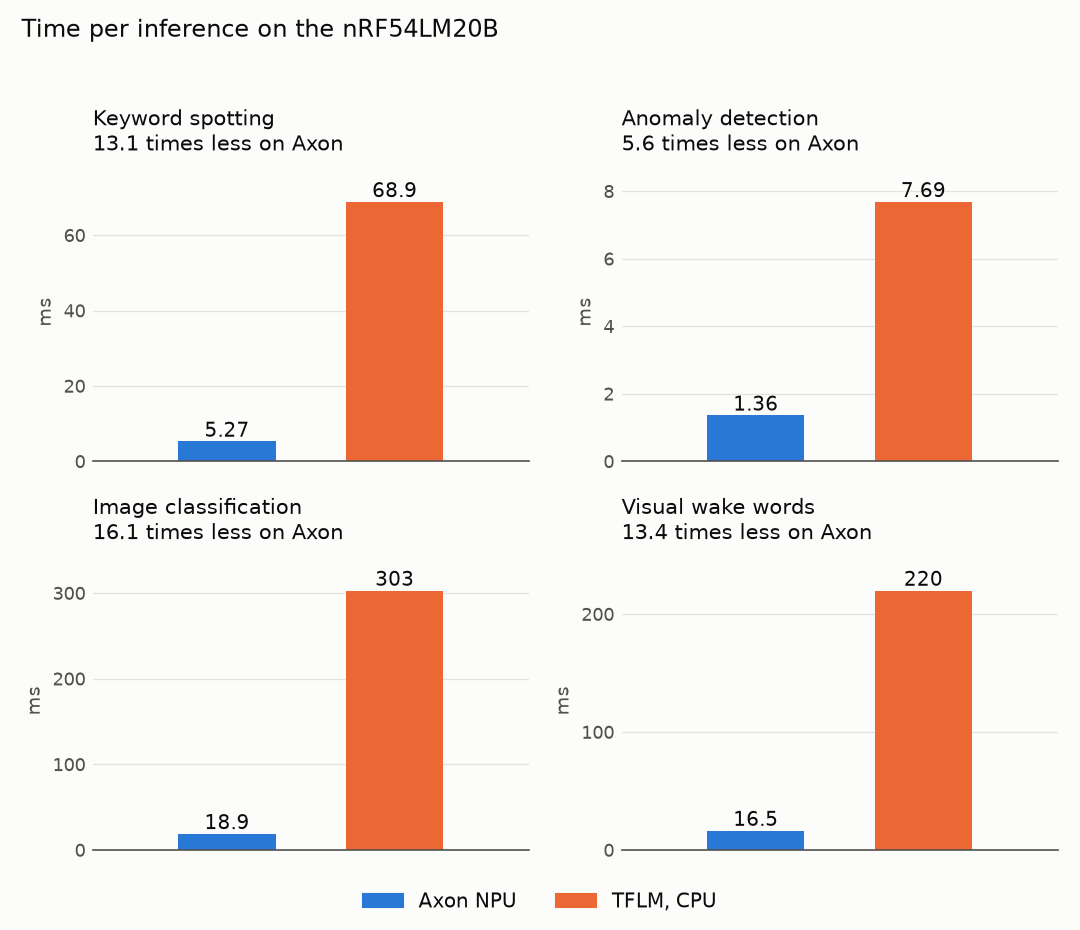
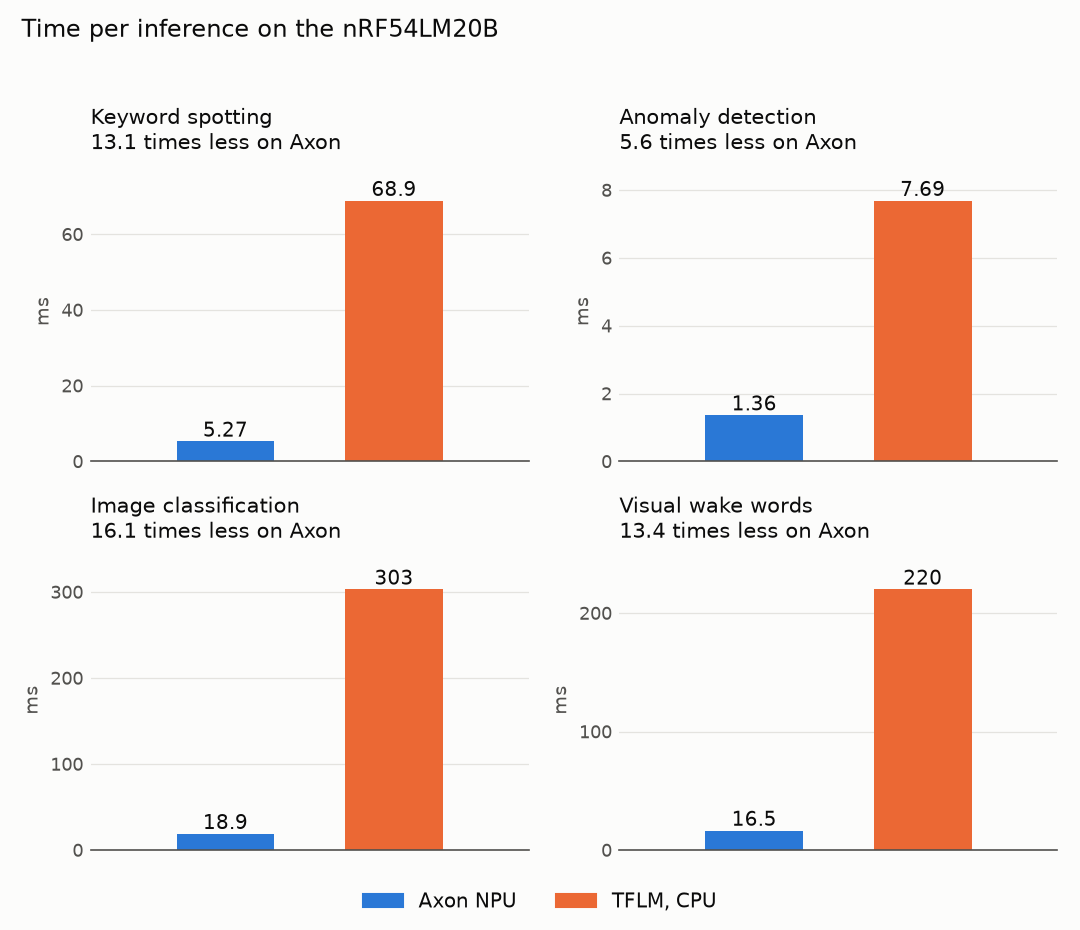
doc: short top-level README, app/README.md for the inference app

diff --git a/bench/plot.py b/bench/plot.py
@@ -60,6 +60,36 @@ def bars(index, unit, what, out):
     fig.savefig(HERE / out, dpi=150)
 
 
+def overview(out):
+    """Duration and mean current of one inference: one column per model, bars only."""
+    fig, axes = plt.subplots(2, len(MODELS), figsize=(10, 5.2), facecolor=SURFACE)
+    for col, (model, title) in enumerate(MODELS.items()):
+        widths, charges = zip(*(report(backend, model) for backend in BACKENDS))
+        rows = ((widths, "ms", f"{title}\n{widths[1] / widths[0]:.1f} times shorter on Axon"),
+                ([q / w for q, w in zip(charges, widths)], "mA", ""))
+        for ax, (values, unit, label) in zip(axes[:, col], rows):
+            drawn = ax.bar(range(2), values, width=0.58, color=[c for _, c in BACKENDS.values()])
+            for bar, value in zip(drawn, values):
+                ax.text(bar.get_x() + bar.get_width() / 2, value,
+                        f"{value:,.0f}" if value >= 100 else f"{value:.3g}",
+                        ha="center", va="bottom", fontsize=9, color=INK)
+            ax.set_title(label, fontsize=9.5, color=INK, loc="left")
+            ax.set_ylim(0, 4.2 if unit == "mA" else max(values) * 1.15)
+            ax.set_xlim(-0.8, 1.8)
+            ax.set_xticks([])
+            ax.locator_params(axis="y", nbins=5)
+            style(ax)
+    axes[0, 0].set_ylabel("Duration (ms)", fontsize=9, color=MUTED)
+    axes[1, 0].set_ylabel("Mean current (mA)", fontsize=9, color=MUTED)
+    fig.legend(handles=[plt.Rectangle((0, 0), 1, 1, color=c) for _, c in BACKENDS.values()],
+               labels=[n for n, _ in BACKENDS.values()], loc="lower center", ncol=2, frameon=False,
+               fontsize=9.5, labelcolor=INK)
+    fig.suptitle("One inference on the nRF54LM20B: duration, and mean current over that duration",
+                 fontsize=11.5, color=INK, x=0.02, ha="left")
+    fig.tight_layout(rect=(0, 0.05, 1, 0.96))
+    fig.savefig(HERE / out, dpi=150)
+
+
 def capture(backend, model):
     """Current in µA, and the D0 region whose charge is the closest to the median."""
     rows = np.loadtxt(HERE / f"{backend}_{model}.csv", delimiter=",", skiprows=1, usecols=(1, 3))
@@ -106,6 +136,7 @@ def traces(out):
     fig.savefig(HERE / out, dpi=150)
 
 
+overview("overview.png")
 bars(0, "ms", "Time", "latency.png")
 bars(1, "µC", "Charge", "charge.png")
 traces("traces.png")

diff --git a/README.md b/README.md
@@ -1,28 +1,15 @@
 # axon-npu-demo
 
-Minimal Axon NPU flow on the nRF54LM20 DK (nRF54LM20B SoC, board target `nrf54lm20dk/nrf54lm20b/cpuapp`):
-- take a model compiled by Nordic's Axon compiler (a C header),
-- link it into a Zephyr app,
-- run inference on the test vectors that come with it,
-- check the output bytes against the expected ones.
+Two Zephyr apps for the Axon NPU of the nRF54LM20B, on the nRF54LM20 DK:
 
-The default model is `tinyml_kws`, one of the four [MLPerf Tiny](https://github.com/mlcommons/tiny) models that the Edge AI Add-on ships already compiled, with three test vectors each. The app includes those headers from the add-on in the west workspace; this repository contains no add-on file.
+- [`app/`](app/README.md) runs a model compiled by Nordic's Axon compiler on the test vectors that come with it, and compares the output bytes with the expected ones.
+- [`bench/`](bench/README.md) measures the time and the current of an inference with a [Power Profiler Kit II](https://www.nordicsemi.com/Products/Development-hardware/Power-Profiler-Kit-2) (PPK2), on the NPU and on the CPU with TensorFlow Lite Micro (TFLM).
 
-`just compile` is optional: it downloads the four MLPerf Tiny `.tflite` models and runs the Axon compiler on them, to show how such headers are produced.
+The models are the four of [MLPerf Tiny](https://github.com/mlcommons/tiny). The [Edge AI Add-on](https://github.com/nrfconnect/sdk-edge-ai) ships them compiled, with three test vectors each, and the app includes those headers from the west workspace. This repository contains no add-on file.
 
-[`bench/`](bench/README.md) is a second app, which measures the time and the charge of an inference on the NPU and on the CPU. See [bench/README.md](bench/README.md) for the details.
+![Duration and mean current of one inference of the four models, on the NPU and on the CPU](bench/results/overview.png)
 
-```mermaid
-flowchart LR
-    addon[add-on: compiled_models/<br/>model + test vectors headers] --> build((just build))
-    tflite[MLPerf Tiny .tflite<br/>downloaded] -- just compile --> out[model/outputs/<br/>model + test vectors headers]
-    out -.-> build
-    app[main.c] --> build
-    sdk[nRF Connect SDK, Zephyr<br/>add-on driver + platform] --> build
-    build --> hex[zephyr.hex]
-    hex -- just flash --> dk[nRF54LM20 DK]
-    dk -- just monitor --> log[UART: outputs vs expected]
-```
+On the NPU an inference is 5.6 to 16.1 times shorter, at a mean current 0.4 to 1.0 mA higher. Its charge is 3.9 to 13.8 times lower. See [bench/README.md](bench/README.md) for the measurement and its limits.
 
 ## Requirements
 
@@ -38,7 +25,7 @@ flowchart LR
 `west.yml` pins the [Edge AI Add-on](https://github.com/nrfconnect/sdk-edge-ai)
 at **v3.0.0**, which pulls nRF Connect SDK **v3.4.1**.
 
-## Run
+## Quick start
 
 This repo is a west manifest: clone it into an empty directory and the SDK is checked out next to it.
 
@@ -51,19 +38,6 @@ just build      # tinyml_kws
 just flash
 just monitor    # Ctrl-] to quit
 ```
-
-If nRF Connect SDK v3.4.1 is already on disk, let west clone from it
-instead of downloading (`--path-cache`, see `west update --help`):
-
-```sh
-just setup --path-cache /opt/nordic/ncs/v3.4.1
-```
-
-`just setup` can be run again after an interrupted download.
-
-To reuse an existing add-on v3.0.0 workspace instead, skip `just setup`, install the toolchain
-(`nrfutil sdk-manager toolchain install --ncs-version v3.4.1`) and prefix the other recipes:
-`AXON_WS=/path/to/workspace just build`.
 
 Expected output, after the boot banner (the vector lines and the summary repeat every 2 s):
 
@@ -79,117 +53,10 @@ The first line prints once at start-up: press RESET on the DK to see it. The fir
 
 The classes match the sample log in the add-on's `tests/axon/inference/README.rst`. `MISMATCH` replaces `bit exact` when the output differs from the expected vector.
 
-## Other models
+## Details
 
-```sh
-just build tinyml_ad     # anomaly detection, no class line
-just build tinyml_ic     # image classification
-just build tinyml_vww    # visual wake words
-```
-
-Build sizes on add-on v3.0.0. RAM includes the 52 224 B interlayer buffer, flash the three test vectors:
-
-| Model | Input | Output | Interlayer buffer needed | Flash | RAM |
-|---|---:|---:|---:|---:|---:|
-| `tinyml_kws` | 490 B | 48 B | 13 548 B | 85 028 B | 60 032 B |
-| `tinyml_ad` | 640 B | 2 560 B | 2 688 B | 323 396 B | 62 376 B |
-| `tinyml_ic` | 3 072 B | 40 B | 52 224 B | 172 320 B | 60 016 B |
-| `tinyml_vww` | 27 648 B | 8 B | 46 080 B | 389 256 B | 59 952 B |
-
-## Compiling a model (optional)
-
-```sh
-just compile                          # needs Docker
-just build mlperf_kws model/outputs
-```
-
-`just compile`:
-
-1. downloads the four reference models from [mlcommons/tiny](https://github.com/mlcommons/tiny/tree/4addd0fa08d216e20637637874e084895f289da4/benchmark/training) at a pinned commit and checks their SHA-256,
-2. writes three random inputs per model with `model/make_test_data.py`, run inside the compiler image,
-3. runs the Axon compiler (Docker image built from the add-on) on `model/axon.yaml`.
-
-The compiler writes to `model/outputs/`, which is not committed. For `mlperf_kws`, and likewise for `mlperf_ad`, `mlperf_ic` and `mlperf_vww`:
-
-| File | Content |
-|---|---|
-| `nrf_axon_model_mlperf_kws_.h` | the compiled model |
-| `nrf_axon_model_mlperf_kws_test_vectors_.h` | the three inputs and the outputs the compiler computed for them on the host |
-| `nrf_axon_model_mlperf_kws_layers_.h` | per-layer models, not used here |
-| `nrf_axon_model_mlperf_kws_test_inference_labels_.csv` | the same expected outputs as CSV, not used here |
-
-The result is not the add-on's `tinyml_kws`: same layers and sizes, different weights, and `int8` outputs (12 B) where the add-on's header has `int32` (48 B). The inputs are random, so the printed classes mean nothing; only the bit-exact check does.
-
-## Axon compiler output
-
-The compiler writes `nrf_axon_model_<name>_.h` (the model), `..._test_vectors_.h` and `..._layers_.h`. The add-on's four can be read online:
-
-| Model | Compiled model | Test vectors |
-|---|---|---|
-| `tinyml_kws` | [`nrf_axon_model_tinyml_kws_.h`](https://github.com/nrfconnect/sdk-edge-ai/blob/v3.0.0/tests/axon/compiled_models/nrf_axon_model_tinyml_kws_.h) | [`nrf_axon_model_tinyml_kws_test_vectors_.h`](https://github.com/nrfconnect/sdk-edge-ai/blob/v3.0.0/tests/axon/compiled_models/nrf_axon_model_tinyml_kws_test_vectors_.h) |
-| `tinyml_ad` | [`nrf_axon_model_tinyml_ad_.h`](https://github.com/nrfconnect/sdk-edge-ai/blob/v3.0.0/tests/axon/compiled_models/nrf_axon_model_tinyml_ad_.h) | [`nrf_axon_model_tinyml_ad_test_vectors_.h`](https://github.com/nrfconnect/sdk-edge-ai/blob/v3.0.0/tests/axon/compiled_models/nrf_axon_model_tinyml_ad_test_vectors_.h) |
-| `tinyml_ic` | [`nrf_axon_model_tinyml_ic_.h`](https://github.com/nrfconnect/sdk-edge-ai/blob/v3.0.0/tests/axon/compiled_models/nrf_axon_model_tinyml_ic_.h) | [`nrf_axon_model_tinyml_ic_test_vectors_.h`](https://github.com/nrfconnect/sdk-edge-ai/blob/v3.0.0/tests/axon/compiled_models/nrf_axon_model_tinyml_ic_test_vectors_.h) |
-| `tinyml_vww` | [`nrf_axon_model_tinyml_vww_.h`](https://github.com/nrfconnect/sdk-edge-ai/blob/v3.0.0/tests/axon/compiled_models/nrf_axon_model_tinyml_vww_.h) | [`nrf_axon_model_tinyml_vww_test_vectors_.h`](https://github.com/nrfconnect/sdk-edge-ai/blob/v3.0.0/tests/axon/compiled_models/nrf_axon_model_tinyml_vww_test_vectors_.h) |
-
-For `tinyml_kws`:
-
-| Symbol | Where | What |
-|---|---|---|
-| `cmd_buffer_tinyml_kws[]` | flash | NPU command stream, 3 613 words |
-| `axon_model_const_tinyml_kws` | flash | weights and biases, 22 064 B |
-| `model_tinyml_kws` | flash | descriptor: buffer pointers, I/O shapes, quantisation, labels |
-
-The header also states the RAM the model needs for its activations, the interlayer buffer (`NRF_AXON_MODEL_TINYML_KWS_MAX_IL_BUFFER_USED`; the app prints it as "workspace"). That RAM is not inside the NPU: it is the global array `nrf_axon_interlayer_buffer`, defined in the add-on's Zephyr platform file and sized by `CONFIG_NRF_AXON_INTERLAYER_BUFFER_SIZE` in `app/prj.conf`. The same buffer holds the model's input and output. The header fails to compile if the buffer is too small.
-
-## Runtime flow
-
-See `app/src/main.c`:
-
-1. `nrf_axon_platform_init()`: IRQ, power and locking for the NPU.
-2. `nrf_axon_nn_model_init_vars()` resets the model's persistent variables (these models have none).
-   `nrf_axon_nn_model_validate()` checks that the interlayer buffer is large enough and the driver recent enough.
-   The app also refuses a model with several inputs or outputs.
-3. `nrf_axon_nn_model_infer_sync(&model, in, out)`:
-    - powers the NPU on and takes its lock,
-    - copies `in` into the interlayer buffer,
-    - hands the command stream to the NPU,
-    - sleeps until the completion interrupt,
-    - copies the result to `out` and powers the NPU off.
-4. `nrf_axon_nn_get_classification()`: index and label of the highest output.
-
-Not every layer runs on the NPU: the command streams of the three classifiers end with a softmax computed on the CPU, in `drivers/axon/nrf_axon_nn_op_extensions.c`.
-
-An application needs three things to use the NPU: `CONFIG_NRF_AXON=y` and `CONFIG_NRF_AXON_INTERLAYER_BUFFER_SIZE` in `prj.conf`, and the `axon` node enabled in a devicetree overlay (`app/boards/`), since it is disabled by default.
-
-## Important add-on files
-
-| Path under `edge-ai/` | Content |
-|---|---|
-| `include/drivers/axon/`, `include/axon/` | public headers |
-| `drivers/axon/nrf_axon_nn_infer.c` | inference entry points (source provided) |
-| `lib/axon/platform/src/zephyr/nrf_axon_platform_zephyr.c` | OS glue: IRQ, semaphores, power, interlayer buffer |
-| `lib/axon/bin/arm/libnrf-axon-driver-internal.a` | NPU driver core (prebuilt) |
-| `tools/axon/compiler/` | compiler (Docker) |
-| `tests/axon/compiled_models/` | the compiled models and test vectors used here |
-| `tests/axon/inference/` | Nordic's own test app for these models |
-| `samples/axon/hello_axon/` | Nordic's own minimal sample |
-
-References:
-- [Edge AI Add-on](https://nrfconnectdocs.nordicsemi.com/addons/addon-edge-ai/3.0.0/),
-- [Axon compiler](https://github.com/nrfconnect/sdk-edge-ai/blob/v3.0.0/doc/axon_compiler/Axon_npu_tflite_compiler.rst),
-- [MLPerf Tiny models on Axon](https://github.com/nrfconnect/sdk-edge-ai/blob/v3.0.0/doc/axon_compiler/mlperf_tiny_models.rst),
-- [supported operators](https://github.com/nrfconnect/sdk-edge-ai/blob/v3.0.0/doc/axon_compiler/supported_operators.rst).
-
-## Notes
-
-- `just flash` and `just monitor` use the only J-Link kit attached. With several, they stop and ask for `DK_SERIAL=<serial number>`, as listed by `nrfutil device list`.
-- The compiler in add-on v3.0.0 (Axon compiler v2.0.1) fails without the `classification_labels` key in `model/axon.yaml`. A model without classes, like anomaly detection, takes the key empty and no `test_labels`.
-- The compiler writes the test vectors header only with `test_data` and `header_file_test_vector_cnt` above 0; the default is 0.
-- The `us` column is the time of one `nrf_axon_nn_model_infer_sync()` call, measured with `k_cycle_get_32()` (1 µs resolution). It includes NPU power-up and locking, the input copy, the NPU run, any CPU layer, the output copy and power-down.
-- Tested on macOS. Linux is untested; Windows is not supported (`flash` and `monitor` need `bash`).
-- A model header defines its data, so it can be included in one C file only.
-- `just build` passes `-DAXON_MODEL` and `-DAXON_MODEL_DIR` to CMake; `app/CMakeLists.txt` reads them with `zephyr_get()`, since a plain cache variable does not reach the app image under sysbuild.
-- Paths containing spaces are not supported by the SDK's build system.
+- See [app/README.md](app/README.md) for the other models, the compiler's output, the driver calls of the app and the add-on files to read.
+- See [bench/README.md](bench/README.md) for the measurements: the tables, the figures, the method and how to reproduce them.
 
 ## Licence
 

diff --git a/app/README.md b/app/README.md
@@ -1,0 +1,142 @@
+# Inference app
+
+The app links a model compiled by Nordic's Axon compiler, runs it on the test vectors that come
+with it, and compares the output bytes with the expected ones. This page describes the models, the
+compiler's output, the driver calls and the add-on files behind it. See the
+[top-level README](../README.md) for the requirements and the quick start.
+
+```mermaid
+flowchart LR
+    addon[add-on: compiled_models/<br/>model + test vectors headers] --> build((just build))
+    tflite[MLPerf Tiny .tflite<br/>downloaded] -- just compile --> out[model/outputs/<br/>model + test vectors headers]
+    out -.-> build
+    app[main.c] --> build
+    sdk[nRF Connect SDK, Zephyr<br/>add-on driver + platform] --> build
+    build --> hex[zephyr.hex]
+    hex -- just flash --> dk[nRF54LM20 DK]
+    dk -- just monitor --> log[UART: outputs vs expected]
+```
+
+## Models
+
+```sh
+just build tinyml_ad     # anomaly detection, no class line
+just build tinyml_ic     # image classification
+just build tinyml_vww    # visual wake words
+```
+
+Build sizes on add-on v3.0.0. RAM includes the 52,224 B interlayer buffer, flash the three test vectors:
+
+| Model | Input | Output | Interlayer buffer needed | Flash | RAM |
+|---|---:|---:|---:|---:|---:|
+| `tinyml_kws` | 490 B | 48 B | 13,548 B | 85,028 B | 60,032 B |
+| `tinyml_ad` | 640 B | 2,560 B | 2,688 B | 323,396 B | 62,376 B |
+| `tinyml_ic` | 3,072 B | 40 B | 52,224 B | 172,320 B | 60,016 B |
+| `tinyml_vww` | 27,648 B | 8 B | 46,080 B | 389,256 B | 59,952 B |
+
+## Compiling a model
+
+```sh
+just compile                          # needs Docker
+just build mlperf_kws model/outputs
+```
+
+`just compile`:
+
+1. downloads the four reference models from [mlcommons/tiny](https://github.com/mlcommons/tiny/tree/4addd0fa08d216e20637637874e084895f289da4/benchmark/training) at a pinned commit and checks their SHA-256,
+2. writes three random inputs per model with [`model/make_test_data.py`](../model/make_test_data.py), run inside the compiler image,
+3. runs the Axon compiler (Docker image built from the add-on) on [`model/axon.yaml`](../model/axon.yaml).
+
+The compiler writes to `model/outputs/`, which is not committed. For `mlperf_kws`, and likewise for `mlperf_ad`, `mlperf_ic` and `mlperf_vww`:
+
+| File | Content |
+|---|---|
+| `nrf_axon_model_mlperf_kws_.h` | the compiled model |
+| `nrf_axon_model_mlperf_kws_test_vectors_.h` | the three inputs and the outputs the compiler computed for them on the host |
+| `nrf_axon_model_mlperf_kws_layers_.h` | per-layer models, not used here |
+| `nrf_axon_model_mlperf_kws_test_inference_labels_.csv` | the same expected outputs as CSV, not used here |
+
+The result is not the add-on's `tinyml_kws`: same layers and sizes, different weights, and `int8` outputs (12 B) where the add-on's header has `int32` (48 B). The inputs are random, so the printed classes mean nothing; only the bit-exact check does.
+
+## Axon compiler output
+
+The compiler writes `nrf_axon_model_<name>_.h` (the model), `..._test_vectors_.h` and `..._layers_.h`. The add-on's four can be read online:
+
+| Model | Compiled model | Test vectors |
+|---|---|---|
+| `tinyml_kws` | [`nrf_axon_model_tinyml_kws_.h`](https://github.com/nrfconnect/sdk-edge-ai/blob/v3.0.0/tests/axon/compiled_models/nrf_axon_model_tinyml_kws_.h) | [`nrf_axon_model_tinyml_kws_test_vectors_.h`](https://github.com/nrfconnect/sdk-edge-ai/blob/v3.0.0/tests/axon/compiled_models/nrf_axon_model_tinyml_kws_test_vectors_.h) |
+| `tinyml_ad` | [`nrf_axon_model_tinyml_ad_.h`](https://github.com/nrfconnect/sdk-edge-ai/blob/v3.0.0/tests/axon/compiled_models/nrf_axon_model_tinyml_ad_.h) | [`nrf_axon_model_tinyml_ad_test_vectors_.h`](https://github.com/nrfconnect/sdk-edge-ai/blob/v3.0.0/tests/axon/compiled_models/nrf_axon_model_tinyml_ad_test_vectors_.h) |
+| `tinyml_ic` | [`nrf_axon_model_tinyml_ic_.h`](https://github.com/nrfconnect/sdk-edge-ai/blob/v3.0.0/tests/axon/compiled_models/nrf_axon_model_tinyml_ic_.h) | [`nrf_axon_model_tinyml_ic_test_vectors_.h`](https://github.com/nrfconnect/sdk-edge-ai/blob/v3.0.0/tests/axon/compiled_models/nrf_axon_model_tinyml_ic_test_vectors_.h) |
+| `tinyml_vww` | [`nrf_axon_model_tinyml_vww_.h`](https://github.com/nrfconnect/sdk-edge-ai/blob/v3.0.0/tests/axon/compiled_models/nrf_axon_model_tinyml_vww_.h) | [`nrf_axon_model_tinyml_vww_test_vectors_.h`](https://github.com/nrfconnect/sdk-edge-ai/blob/v3.0.0/tests/axon/compiled_models/nrf_axon_model_tinyml_vww_test_vectors_.h) |
+
+For `tinyml_kws`:
+
+| Symbol | Where | What |
+|---|---|---|
+| `cmd_buffer_tinyml_kws[]` | flash | NPU command stream, 3,613 words |
+| `axon_model_const_tinyml_kws` | flash | weights and biases, 22,064 B |
+| `model_tinyml_kws` | flash | descriptor: buffer pointers, I/O shapes, quantisation, labels |
+
+The header also states the RAM the model needs for its activations, the interlayer buffer (`NRF_AXON_MODEL_TINYML_KWS_MAX_IL_BUFFER_USED`; the app prints it as "workspace"). That RAM is not inside the NPU: it is the global array `nrf_axon_interlayer_buffer`, defined in the add-on's Zephyr platform file and sized by `CONFIG_NRF_AXON_INTERLAYER_BUFFER_SIZE` in `prj.conf`. The same buffer holds the model's input and output. The header fails to compile if the buffer is too small.
+
+## Runtime flow
+
+See [`src/main.c`](src/main.c):
+
+1. `nrf_axon_platform_init()`: IRQ, power and locking for the NPU.
+2. `nrf_axon_nn_model_init_vars()` resets the model's persistent variables (these models have none).
+   `nrf_axon_nn_model_validate()` checks that the interlayer buffer is large enough and the driver recent enough.
+   The app also refuses a model with several inputs or outputs.
+3. `nrf_axon_nn_model_infer_sync(&model, in, out)` powers the NPU on, takes its lock and copies `in` into the interlayer buffer.
+   It hands the command stream to the NPU and sleeps until the completion interrupt.
+   Then it copies the result to `out` and powers the NPU off.
+4. `nrf_axon_nn_get_classification()`: index and label of the highest output.
+
+Not every layer runs on the NPU: the command streams of the three classifiers end with a softmax computed on the CPU, in `drivers/axon/nrf_axon_nn_op_extensions.c`.
+
+An application needs three things to use the NPU: `CONFIG_NRF_AXON=y` and `CONFIG_NRF_AXON_INTERLAYER_BUFFER_SIZE` in `prj.conf`, and the `axon` node enabled in a devicetree overlay (`boards/`), since it is disabled by default.
+
+## Add-on files
+
+| Path under `edge-ai/` | Content |
+|---|---|
+| `include/drivers/axon/`, `include/axon/` | public headers |
+| `drivers/axon/nrf_axon_nn_infer.c` | inference entry points (source provided) |
+| `lib/axon/platform/src/zephyr/nrf_axon_platform_zephyr.c` | OS glue: IRQ, semaphores, power, interlayer buffer |
+| `lib/axon/bin/arm/libnrf-axon-driver-internal.a` | NPU driver core (prebuilt) |
+| `tools/axon/compiler/` | compiler (Docker) |
+| `tests/axon/compiled_models/` | the compiled models and test vectors used here |
+| `tests/axon/inference/` | Nordic's own test app for these models |
+| `samples/axon/hello_axon/` | Nordic's own minimal sample |
+
+References:
+- [Edge AI Add-on](https://nrfconnectdocs.nordicsemi.com/addons/addon-edge-ai/3.0.0/),
+- [Axon compiler](https://github.com/nrfconnect/sdk-edge-ai/blob/v3.0.0/doc/axon_compiler/Axon_npu_tflite_compiler.rst),
+- [MLPerf Tiny models on Axon](https://github.com/nrfconnect/sdk-edge-ai/blob/v3.0.0/doc/axon_compiler/mlperf_tiny_models.rst),
+- [supported operators](https://github.com/nrfconnect/sdk-edge-ai/blob/v3.0.0/doc/axon_compiler/supported_operators.rst).
+
+## Workspace
+
+If nRF Connect SDK v3.4.1 is already on disk, let west clone from it
+instead of downloading (`--path-cache`, see `west update --help`):
+
+```sh
+just setup --path-cache /opt/nordic/ncs/v3.4.1
+```
+
+`just setup` can be run again after an interrupted download.
+
+To reuse an existing add-on v3.0.0 workspace instead, skip `just setup`, install the toolchain
+(`nrfutil sdk-manager toolchain install --ncs-version v3.4.1`) and prefix the other recipes:
+`AXON_WS=/path/to/workspace just build`.
+
+## Notes
+
+- `just flash` and `just monitor` use the only J-Link kit attached. With several, they stop and ask for `DK_SERIAL=<serial number>`, as listed by `nrfutil device list`.
+- The compiler in add-on v3.0.0 (Axon compiler v2.0.1) fails without the `classification_labels` key in [`model/axon.yaml`](../model/axon.yaml). A model without classes, like anomaly detection, takes the key empty and no `test_labels`.
+- The compiler writes the test vectors header only with `test_data` and `header_file_test_vector_cnt` above 0; the default is 0.
+- The `us` column is the time of one `nrf_axon_nn_model_infer_sync()` call, measured with `k_cycle_get_32()` (1 µs resolution). It includes NPU power-up and locking, the input copy, the NPU run, any CPU layer, the output copy and power-down.
+- Tested on macOS. Linux is untested; Windows is not supported (`flash` and `monitor` need `bash`).
+- A model header defines its data, so it can be included in one C file only.
+- `just build` passes `-DAXON_MODEL` and `-DAXON_MODEL_DIR` to CMake; `CMakeLists.txt` reads them with `zephyr_get()`, since a plain cache variable does not reach the app image under sysbuild.
+- Paths containing spaces are not supported by the SDK's build system.

diff --git a/AGENTS.md b/AGENTS.md
@@ -1,6 +1,6 @@
 # For coding agents
 
-- `README.md` covers the demo app. `bench/README.md` covers the measurements.
+- `README.md` introduces the two apps. `app/README.md` covers the inference app, `bench/README.md` the measurements.
 - Measuring current uses zephyr-ppk2 and ppk2-lib. Read their two procedures before any capture.
 - `../zephyr-ppk2/.claude/skills/ppk2-profile/SKILL.md`: markers, `west ppk2`, reading a report.
 - The [`ppk2` skill](https://github.com/rdagher/ppk2-lib/blob/main/.claude/skills/ppk2/SKILL.md)

diff --git a/bench/README.md b/bench/README.md
@@ -159,7 +159,7 @@ To build, measure and draw, run the following commands. The models are `mlperf_k
 just compile                  # the four models, into model/outputs/
 just measure axon mlperf_kws 12    # build, flash, capture 12 s from a power cycle, report
 just measure tflm mlperf_kws 25
-just measure-all                   # the eight captures, then the three figures
+just measure-all                   # the eight captures, then the figures
 ```
 
 `just measure axon mlperf_kws 12` ends with the report:
